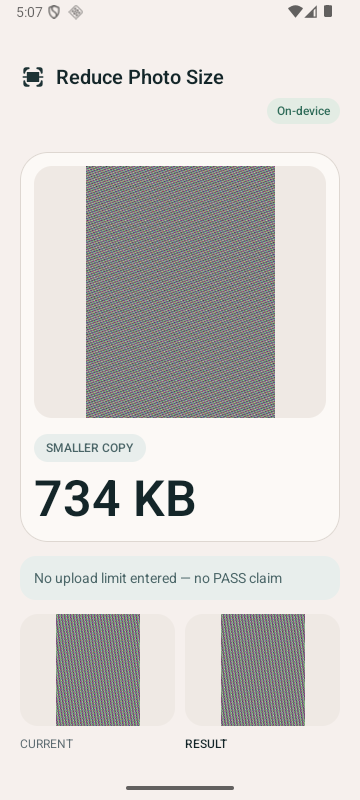
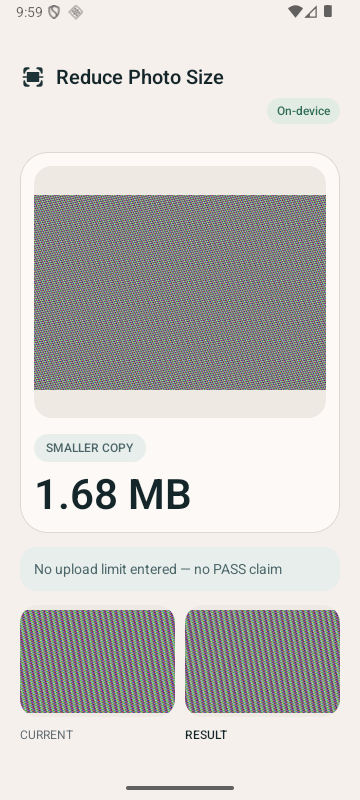
evidence(s5): repair and recapture premium review proof

diff --git a/docs/ux/TASK_S5_006_MOCKUP_RUNTIME_FIDELITY_MATRIX_v1.0.md b/docs/ux/TASK_S5_006_MOCKUP_RUNTIME_FIDELITY_MATRIX_v1.0.md
@@ -1,15 +1,15 @@
 # TASK-S5-006 Mockup → runtime fidelity matrix
 
[2 lines of base64/hex data omitted]
 
 | Screen / buyer job | Required visual objects | Actual runtime objects | Intentional deltas | Missing / placeholder-like objects | Composition / signature | Status |
 |---|---|---|---|---|---|---|
-| Home — understand the job and first action | Brand mark, product name, trust cue, fit-to-limit hero, Choose photo CTA | Compression Frame Mark, Reduce Photo Size, On-device, two-frame fit/reduce vector, Choose photo | Local vector replaces literal mockup art; no baked text or fake numbers | None observed; generic `ic_photo` removed from identity/hero | Headline → designed hero → CTA; DISTINCT | PENDING_HUMAN_REVIEW |
-| Requirement — identify photo and choose limit | Real selected photo, size/dimensions, compact target grid, explicit unknown route | Real photo card, metadata, six target chips, Continue, I don't know the limit | Requirement thumbnail remains Crop by contract | No decorative illustration | Media-first; DISTINCT shell | PENDING_HUMAN_REVIEW |
-| Custom Limit — enter exact target | Numeric input, KB/MB choice, inline validation, Cancel/Use limit | Warm Ink dialog, segmented KB/MB, inline error path retained | No added illustration | None | Focused utility dialog | PENDING_HUMAN_REVIEW |
-| Processing — see safe on-device work | Real source photo, indeterminate progress, original untouched | Real source Fit preview, indeterminate spinner, operation copy, Original untouched | No fabricated percentage/stages | None | Media-first; DISTINCT shell | PENDING_HUMAN_REVIEW |
-| PASS — confirm exact limit result | Real result, status, size/proof, Before/After, Save/Share/actions | Real result Fit hero, MEETS LIMIT, exact bytes, Before/After, Save copy, Share, Compress another | Platform Compose spacing retained | None | Result media dominant; DISTINCT shell | PENDING_HUMAN_REVIEW |
-| NOT_MET — explain safe stop and preserve output | Real result, warning, `>`, guidance, Save current copy/actions | Real result Fit hero, TARGET NOT MET, exact proof, frozen guidance, Save current copy | Calm factual warning retained | No failure illustration | Media-first; DISTINCT shell | PENDING_HUMAN_REVIEW |
-| REDUCED — disclose no guarantee | Real result, neutral/info state, disclaimer, Before/After/actions | Real result Fit hero, SMALLER COPY, no-PASS disclaimer, Before/After/actions | Neutral semantics retained | No success-green claim | Media-first; DISTINCT shell | PENDING_HUMAN_REVIEW |
+| Home — understand the job and first action | Brand mark, product name, trust cue, fit-to-limit hero, Choose photo CTA | Compression Frame Mark, Reduce Photo Size, On-device, two-frame fit/reduce vector, Choose photo | Local vector replaces literal mockup art; no baked text or fake numbers | None observed; generic `ic_photo` removed from identity/hero | Headline → designed hero → CTA; DISTINCT | MACHINE_PASS_CHAT_REVIEW_REQUIRED |
+| Requirement — identify photo and choose limit | Real selected photo, size/dimensions, compact target grid, explicit unknown route | Real photo card, metadata, six target chips, Continue, I don't know the limit | Requirement thumbnail remains Crop by contract | No decorative illustration | Media-first; DISTINCT shell | MACHINE_PASS_CHAT_REVIEW_REQUIRED |
+| Custom Limit — enter exact target | Numeric input, KB/MB choice, inline validation, Cancel/Use limit | Warm Ink dialog, segmented KB/MB, inline error path retained, dot/comma and max-3-decimal guidance | No added illustration | None | Focused utility dialog | MACHINE_PASS_CHAT_REVIEW_REQUIRED |
+| Processing — see safe on-device work | Real source photo, indeterminate progress, original untouched | Real source Fit preview, indeterminate spinner, operation copy, Original untouched | No fabricated percentage/stages | None | Media-first; DISTINCT shell | MACHINE_PASS_CHAT_REVIEW_REQUIRED |
+| PASS — confirm exact limit result | Real result, status, size/proof, Before/After, Save/Share/actions | Real result Fit hero, MEETS LIMIT, exact bytes, Before/After, Save copy, Share, Compress another | Platform Compose spacing retained | None | Result media dominant; DISTINCT shell | MACHINE_PASS_CHAT_REVIEW_REQUIRED |
+| NOT_MET — explain safe stop and preserve output | Real result, warning, `>`, guidance, Save current copy/actions | Real result Fit hero, TARGET NOT MET, exact proof, frozen guidance, Save current copy | Calm factual warning retained | No failure illustration | Media-first; DISTINCT shell | MACHINE_PASS_CHAT_REVIEW_REQUIRED |
+| REDUCED — disclose no guarantee | Real result, neutral/info state, disclaimer, Before/After/actions | Real result Fit hero, SMALLER COPY, no-PASS disclaimer, Before/After/actions | Neutral semantics retained | No success-green claim | Media-first; DISTINCT shell | MACHINE_PASS_CHAT_REVIEW_REQUIRED |
 
 Machine evidence is complete. Premium taste/visual-quality approval is intentionally not self-declared.

diff --git a/HANDOFF_CURRENT.md b/HANDOFF_CURRENT.md
@@ -3,107 +3,36 @@
 Product: REDUCE PHOTO SIZE: KB LIMIT
 Stage: S5_VISUAL_PRODUCTIZATION_REWORK
 Decision: TEST
-Progress: 96%
+Progress: 98%
 Current task: TASK-S5-006
 Next owner: CHAT + HUMAN
-Task status: IMPLEMENTED_MACHINE_QA_PASS_HUMAN_PREMIUM_REVIEW_PENDING
+Task status: IMPLEMENTED_MACHINE_QA_PASS_CHAT_PREMIUM_REVIEW_READY
 
-## Why S5 reopened
+## Evidence summary
+- 0.1.0: 2
+- 2026-09-27: 1
+- FAIL: 1
+- HUMAN_ACTION_REQUIRED: 2
+- HUMAN_REVIEW_REQUIRED: 7
+- PASS: 117
+- PROVENANCE_ONLY_INVALIDATED: 1
+- evidence/play/S5_005_FINAL_GEOMETRY_AND_NOT_MET_PROOF.json: 1
+- evidence/screenshots/s5_005_final_recap/requirement_100kb_api36_360x800.png;evidence/screenshots/s5_005_final_recap/requirement_100kb_api36_320x640.png;evidence/screenshots/s5_005_final_recap/requirement_font_1_3x_api36.png: 1
+- six target choices: 1
+- source-5c58604: 2
 
-Direct human emulator review found that the buyer-facing first-open presentation is not yet visually productized to the intended premium/mockup bar.
+## Authority
+- build_authorized: False
+- artifact_freeze: False
+- release_authorized: False
+- publication_authorized: False
 
-Confirmed gaps:
-- no dedicated launcher/app identity asset;
-- header uses generic `ic_photo`;
-- first-open hero uses generic photo glyph + `PHOTO → READY` symbolic block;
-- no explicit native visual asset manifest / mockup-object parity gate existed.
+## Blockers
+- None recorded
 
-Audit:
-`docs/qa/TASK_S5_006_VISUAL_PRODUCTIZATION_ESCAPE_AUDIT_v1.0.md`
+## Human decisions required
+- Human action is required for Play Console account/app identity, authorized signing enrollment or upload-key selection, tester identities, and upload/submission.
+- Human decision remains required before canonical BUILD promotion, Artifact Freeze, release, or publication.
 
-Corrective spec:
-`docs/ux/TASK_S5_006_VISUAL_ASSET_COMPLETENESS_CORRECTIVE_SPEC_v1.0.md`
-
-Engine correction:
-`docs/engine/AI_PROD_ANDROID_NATIVE_VISUAL_PRODUCTIZATION_GATE_PATCH_v1.0.0.md`
-
-## What remains valid
-
-Technical/domain evidence remains scoped PASS:
-- core compression behavior;
-- exact-byte result truth;
-- Save / Share;
-- API29/API36;
-- actual-engine geometry 10/10;
-- Fit/full-frame geometry;
-- NOT_MET copy/action fidelity.
-
-The prior human approval remains valid ONLY for the final geometry Fit/full-frame gate. It did not approve complete premium visual productization.
-
-## Play handoff disposition
-
-PAUSED.
-
-The previously prepared Play Internal Testing handoff is not the next action while TASK-S5-006 is open.
-
-Any existing AAB remains provenance from the pre-rework visual state. After UI/resource mutation, a fresh build and artifact-bound evidence are mandatory.
-
-## TASK-S5-006 machine QA result
-
-Implemented source commit: `d165d6b325258346b9f55c76b3dbbfc12aa1a538`
-
-Machine QA PASS: dedicated Compression Frame Mark, adaptive launcher resources, local fit-to-limit hero vector, real-media downstream states, clean assembleDebug, test, lintDebug, and fresh artifact evidence.
-
-Evidence: `docs/ux/TASK_S5_006_VISUAL_ASSET_MANIFEST_v1.0.json`, `docs/ux/TASK_S5_006_MOCKUP_RUNTIME_FIDELITY_MATRIX_v1.0.md`, `evidence/play/S5_006_ARTIFACT_PROOF.json`, and `evidence/screenshots/s5_006_visual_productization/`.
-
-## Pending approval
-
-Required exact approval scope:
-`PREMIUM_QUALITY / VISUAL_PRODUCTIZATION`
-
-Codex does not self-declare premium visual quality. Play handoff remains paused until the scoped human review is explicit.
-
-No signing / Play upload / S6 / BUILD promotion / Artifact Freeze / release / publication.
-
-
-## TASK-S5-006 implementation authorization — 2026-09-28
-
-Approval ref:
-`USER_OPTION_1_2026-09-28_TASK_S5_006_VISUAL_ASSET_COMPLETENESS_IMPLEMENTATION`
-
-Execution owner:
-`CODEX`
-
-Canonical work order:
-`prompts/CODEX_TASK_S5_006_VISUAL_ASSET_COMPLETENESS_IMPLEMENTATION.md`
-
-Codex is authorized only for the bounded visual/resource implementation and fresh verification described in that work order.
-
-Play handoff remains PAUSED.
-
-After machine QA, required next human scope:
-`PREMIUM_QUALITY / VISUAL_PRODUCTIZATION`
-
-
-## CHAT evidence audit — 2026-09-28
-
-Disposition:
-`HOLD_MACHINE_EVIDENCE_INCOMPLETE`
-
-Direct review found:
-- `home_api36_360x800.png` is splash-only, not Home;
-- `result_pass_api36.png` visibly renders TARGET NOT MET;
-- `before_after_landscape_api36.png` is byte-identical to the NOT_MET capture and does not independently prove a landscape case;
-- Custom Limit helper still requires the binding decimal-entry guidance;
-- current-build state metadata requires fresh post-repair reconciliation.
-
-Audit:
-`docs/qa/TASK_S5_006_CHAT_PREMIUM_REVIEW_EVIDENCE_AUDIT_v1.0.md`
-
-Codex repair:
-`prompts/CODEX_TASK_S5_006_EVIDENCE_REPAIR_AND_RECAPTURE.md`
-
-Next owner:
-`CODEX`
-
-Do not request human PREMIUM_QUALITY approval until CHAT re-audits the repaired evidence.
+## Next action
+CHAT directly audits repaired TASK-S5-006 runtime evidence; human PREMIUM_QUALITY / VISUAL_PRODUCTIZATION approval remains pending.

diff --git a/CHANGELOG.md b/CHANGELOG.md
@@ -409,3 +409,10 @@
 - downgraded S5-VAC-02 and S5-VAC-03 to HOLD;
 - prepared deterministic Codex recapture/repair work order;
 - human PREMIUM_QUALITY review remains NOT READY.
+## 2026-09-28 — TASK-S5-006 evidence repair and recapture
+
+- Repaired Custom Limit helper guidance to state dot/comma decimal entry and maximum three decimal places without changing parser/range behavior.
+- Rebuilt with JDK17: assembleDebug, unit tests, lintDebug, assembleRelease, and bundleRelease passed.
+- Recaptured API36 Home, Requirement, Custom Limit, Processing, PASS, NOT_MET, REDUCED, and independent landscape Before/After evidence after splash exit.
+- Reconciled artifact hashes, screenshot manifest, fidelity matrix, TEST_MATRIX, PROJECT_STATE, and HANDOFF_CURRENT.
+- Machine status: `IMPLEMENTED_MACHINE_QA_PASS_CHAT_PREMIUM_REVIEW_READY`; human PREMIUM_QUALITY / VISUAL_PRODUCTIZATION review remains pending.
